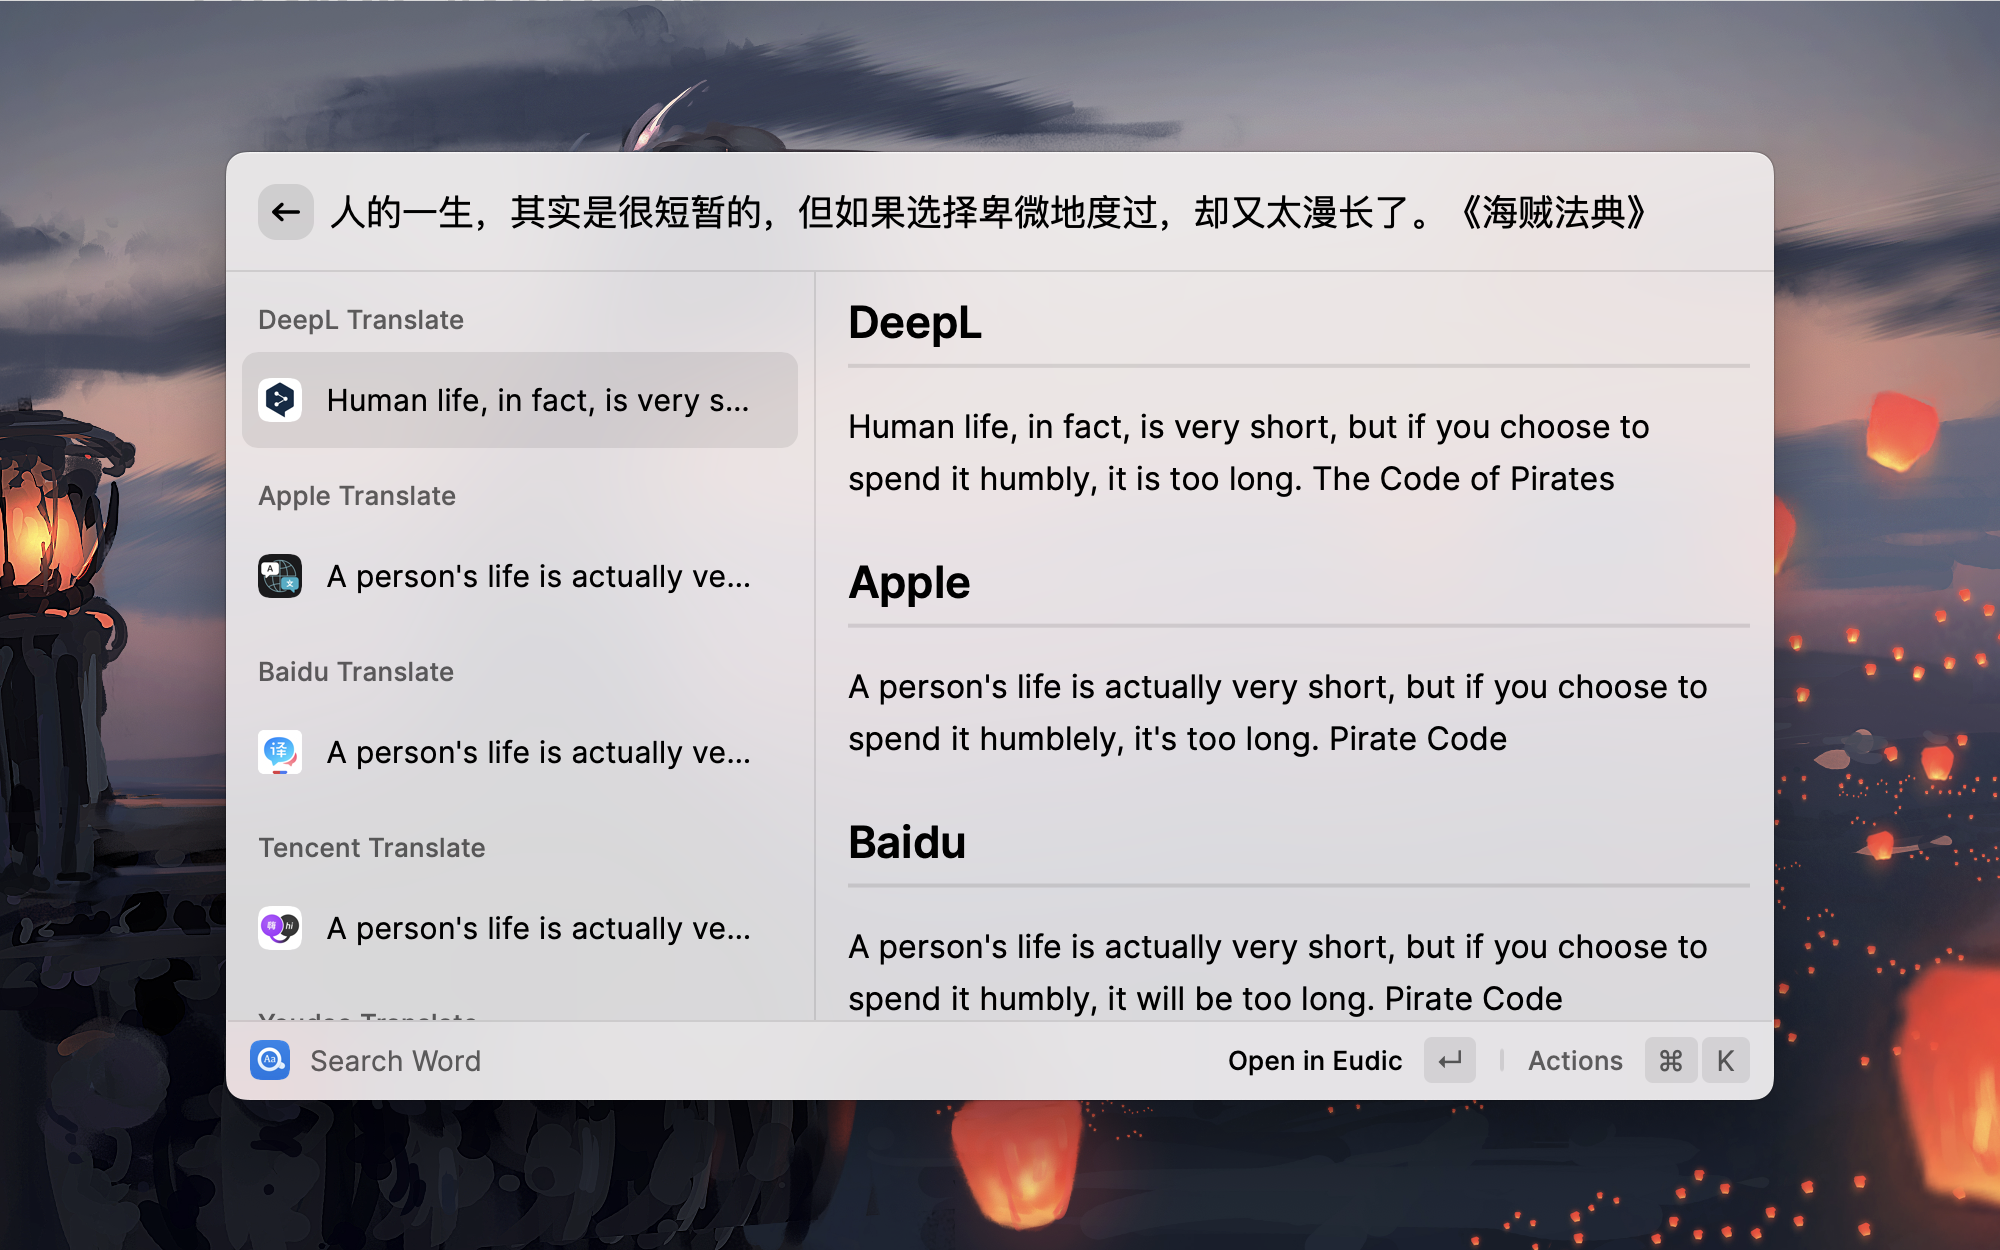
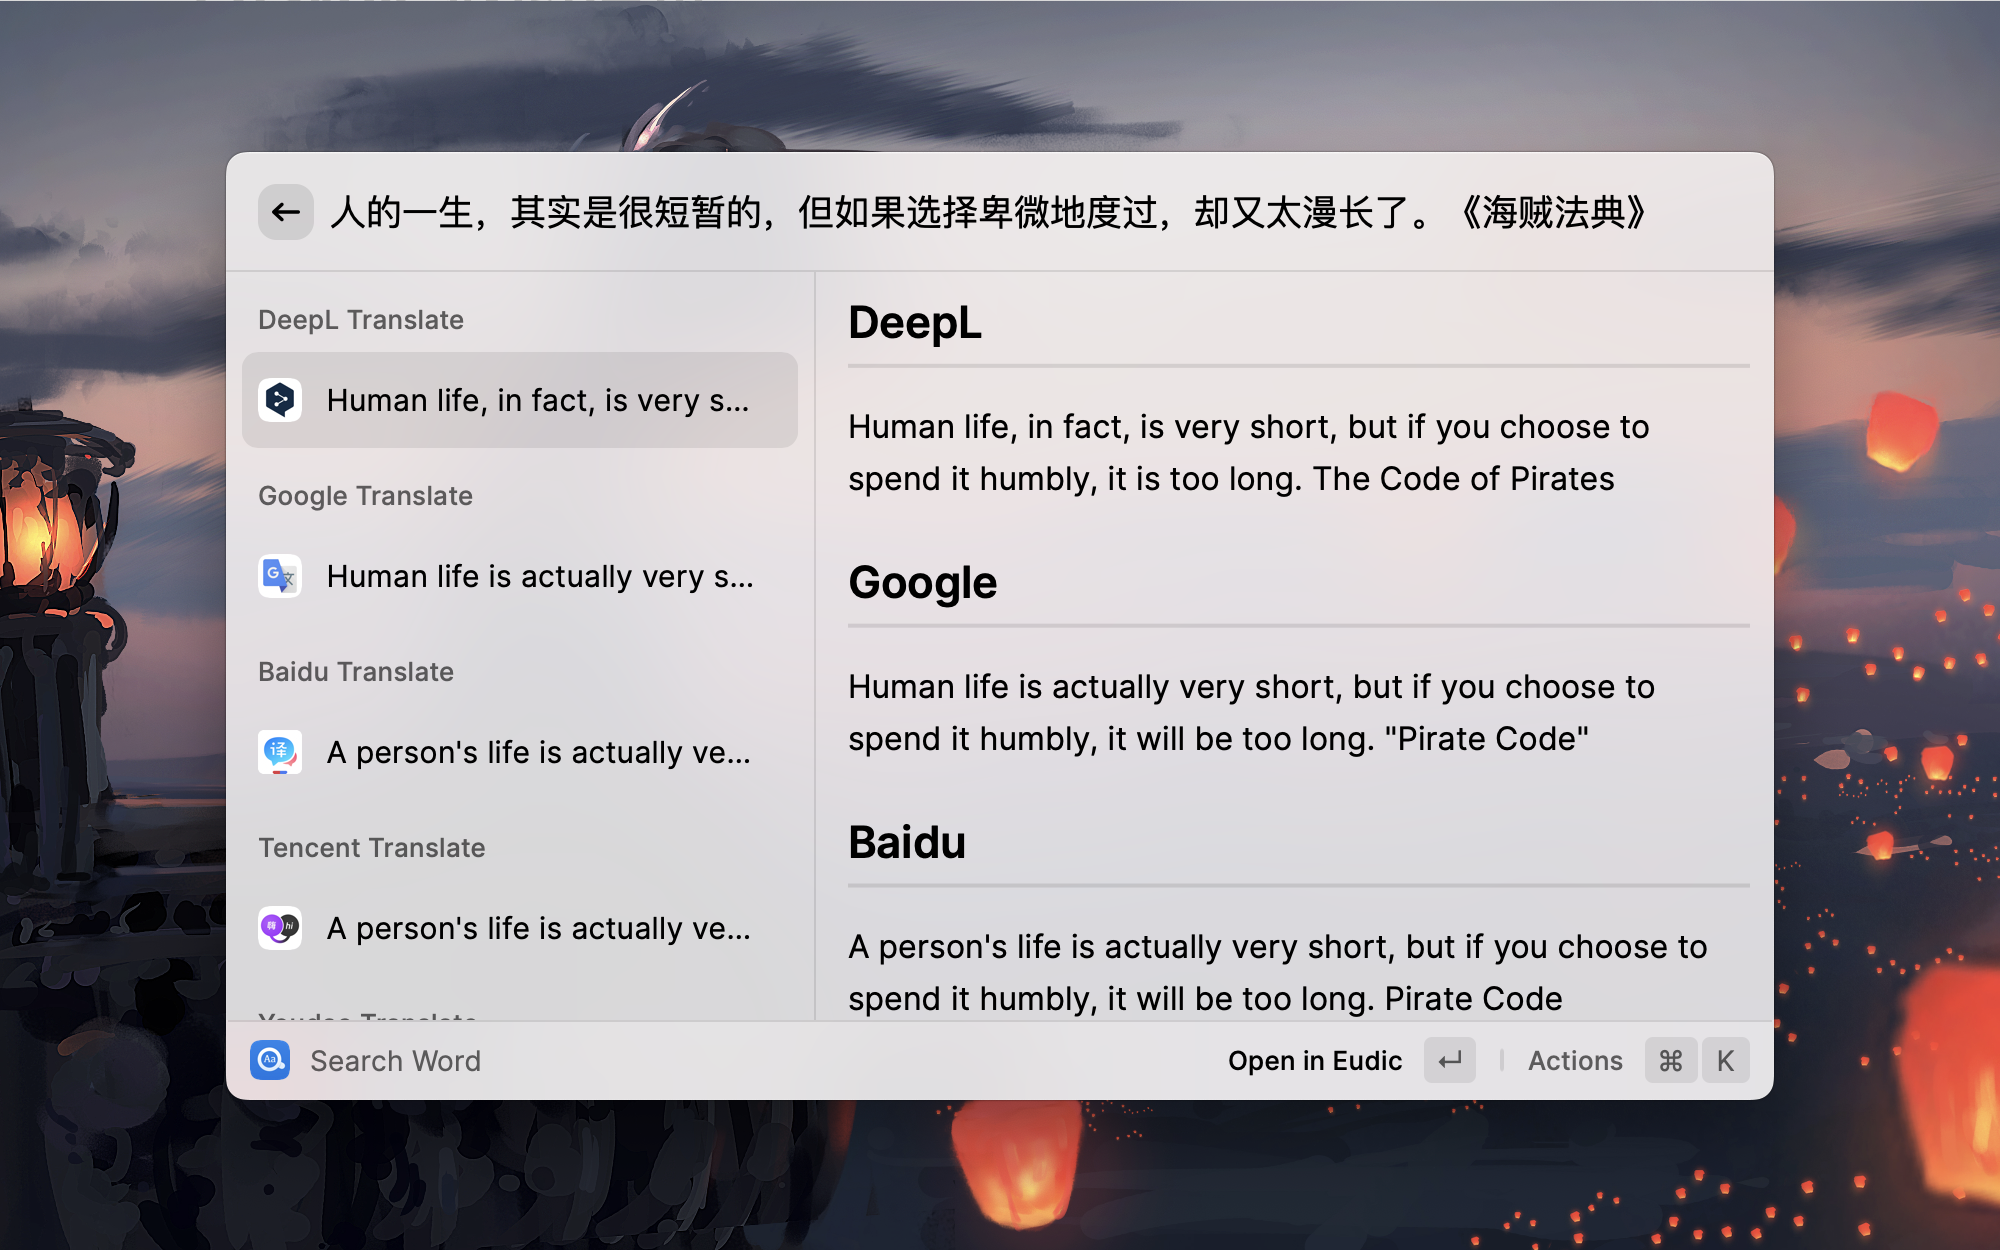
docs: update README and changelog

diff --git a/src/releaseVersion/changelog.ts b/src/releaseVersion/changelog.ts
@@ -2,19 +2,20 @@
  * @author: tisfeng
  * @createTime: 2022-07-03 22:10
  * @lastEditor: tisfeng
- * @lastEditTime: 2022-07-21 16:03
+ * @lastEditTime: 2022-07-23 18:25
  * @fileName: changelog.ts
  *
  * Copyright (c) 2022 by tisfeng, All Rights Reserved.
  */
 
 export const changelog = `
-## [v1.3.1] - 2022-07-21
+## [v1.4.0] - 2022-07-23
 
-### 🐞 Fixes
+### ✨ 新特性
 
-- 修复了可能多次显示更新日志提示的问题。
-- 修复了有道翻译请求异常错误未处理问题。
+- 支持 Google 翻译。
+
+![Google](https://raw.githubusercontent.com/tisfeng/ImageBed/main/uPic/easydict-6-1658571181.png)
 
 ### ✅ 最近更新
 
@@ -22,16 +23,12 @@ export const changelog = `
 - 支持手动排序翻译结果显示。
 - 支持苹果🍎系统翻译
 - 修复了删除输入框文本会导致重复查询选中文本问题。
-- 修复了动作按钮渲染时会闪烁显示 “✨ New Version Released” 问题。
-
-![easydict-5](https://raw.githubusercontent.com/tisfeng/ImageBed/main/uPic/easydict-5-1658309785.png)
 
 ---
 
-### 🐞 Fixes
+### ✨ New
 
-- fixed new release prompt may be shown multiple times.
-- handled the exceptional error of request to Youdao translation.
+- Added support for Google translation.
 
 ### ✅ Recent Updates
 
@@ -39,5 +36,4 @@ export const changelog = `
 - Supported to sort translation results manually.
 - Added support for Apple 🍎 system translation.
 - Fixed deleting input box text will cause repeated query selected text problem.
-- Fixed the bug of "✨ New Version Released" flashing when rendering action button.
 `;

diff --git a/src/releaseVersion/versionInfo.ts b/src/releaseVersion/versionInfo.ts
@@ -2,7 +2,7 @@
  * @author: tisfeng
  * @createTime: 2022-07-01 19:05
  * @lastEditor: tisfeng
- * @lastEditTime: 2022-07-21 16:12
+ * @lastEditTime: 2022-07-23 18:26
  * @fileName: versionInfo.ts
  *
  * Copyright (c) 2022 by tisfeng, All Rights Reserved.
@@ -27,10 +27,10 @@ export class Easydict {
 
   // new version info
   // * NOTE: this is new version info, don't use it directly. Use getCurrentStoredVersionInfo() instead.
-  version = "1.3.1";
-  buildNumber = 5;
-  versionDate = "2022-07-21";
-  isNeedPrompt = false;
+  version = "1.4.0";
+  buildNumber = 6;
+  versionDate = "2022-07-23";
+  isNeedPrompt = true;
   hasPrompted = false; // always default false, only show once, then should be set to true.
   releaseMarkdown = changelog;
 

diff --git a/README.md b/README.md
@@ -13,7 +13,7 @@
 
 ## What is Easydict? [【中文介绍】](https://github.com/tisfeng/Raycast-Easydict/wiki)
 
-`Easydict` is an easy dictionary, for looking up words or translating text in an easy way. Use it out of the box, automatically detect the input text language, support Youdao dictionary, **MacOS system translate**, DeepL, Baidu, Tencent, Youdao and Caiyun translation API.
+`Easydict` is an easy dictionary, for looking up words or translating text in an easy way. Use it out of the box, automatically detect the input text language, support Youdao dictionary, **MacOS system translate**, DeepL, Google, Baidu, Tencent, Youdao and Caiyun translation.
 
 ![easydict-1](https://raw.githubusercontent.com/tisfeng/ImageBed/main/uPic/easydict-1-1658309667-1658309686.png)
 
@@ -29,24 +29,23 @@
 - [x] Support Youdao Text to Speech(TTS).
 - [x] Support to sort translation results manually.
 - [x] Support **MacOS system translation**. (_Please see [How to use macOS 🍎 system translation in Easydict?](https://github.com/tisfeng/Raycast-Easydict/wiki/How-to-use--macOS-%F0%9F%8D%8E-system-translation-in-Easydict%3F)_)
-- [x] Support DeepL, Baidu, Tencent, Youdao and Caiyun translation API.
+- [x] Support DeepL, Google, Baidu, Tencent, Youdao and Caiyun translation.
 - [x] Support 23 languages.
 
 Next:
 
 - [ ] Support more dictionary API, such as homonyms, synonyms, antonyms, Iciba, etc.
-- [ ] Support Google translate API.
 - [ ] Support to view query history.
 
 **_If you like this extension, please give a [Star](https://github.com/tisfeng/Raycast-Easydict) ⭐, thanks!_**
 
 ![easydict-2](https://raw.githubusercontent.com/tisfeng/ImageBed/main/uPic/easydict-2-1658309750.png)
 
-![easydict-3](https://raw.githubusercontent.com/tisfeng/ImageBed/main/uPic/easydict-3-1658309767.png)
+![easydict-3](https://raw.githubusercontent.com/tisfeng/ImageBed/main/uPic/easydict-3-1658570945.png)
 
-![easydict-4](https://raw.githubusercontent.com/tisfeng/ImageBed/main/uPic/easydict-4-1658309776.png)
+![easydict-4](https://raw.githubusercontent.com/tisfeng/ImageBed/main/uPic/easydict-4-1658570954.png)
 
-![easydict-5](https://raw.githubusercontent.com/tisfeng/ImageBed/main/uPic/easydict-5-1658309785.png)
+![easydict-5](https://raw.githubusercontent.com/tisfeng/ImageBed/main/uPic/easydict-5-1658570961.png)
 
 ---
 
@@ -62,31 +61,31 @@ Currently we support 23 languages: Simplified Chinese, Traditional Chinese, Engl
 
 Details of the languages supported by each translation service are as follows:
 
-| language               | Youdao | DeepL | 🍎 Apple | Baidu | Tencent | Caiyun |
-| :--------------------- | :----: | :---: | :------: | :---: | :-----: | :----: |
-| Chinese (Simplified)   |   ✅   |  ✅   |    ✅    |  ✅   |   ✅    |   ✅   |
-| Chinese（Traditional） |   ✅   |  ⚠   |    ⚠    |  ✅   |   ✅    |   ⚠   |
-| English                |   ✅   |  ✅   |    ✅    |  ✅   |   ✅    |   ✅   |
-| Japanese               |   ✅   |  ✅   |    ✅    |  ✅   |   ✅    |   ✅   |
-| Korean                 |   ✅   |  ❌   |    ✅    |  ✅   |   ✅    |   ❌   |
-| French                 |   ✅   |  ✅   |    ✅    |  ✅   |   ✅    |   ❌   |
-| Spanish                |   ✅   |  ✅   |    ✅    |  ✅   |   ✅    |   ❌   |
-| Portuguese             |   ✅   |  ✅   |    ✅    |  ✅   |   ✅    |   ❌   |
-| Italian                |   ✅   |  ✅   |    ✅    |  ✅   |   ✅    |   ❌   |
-| German                 |   ✅   |  ✅   |    ✅    |  ✅   |   ✅    |   ❌   |
-| Russian                |   ✅   |  ✅   |    ✅    |  ✅   |   ✅    |   ❌   |
-| Arabic                 |   ✅   |  ❌   |    ✅    |  ✅   |   ✅    |   ❌   |
-| Swedish                |   ✅   |  ✅   |    ❌    |  ✅   |   ❌    |   ❌   |
-| Romanian               |   ✅   |  ✅   |    ❌    |  ✅   |   ❌    |   ❌   |
-| Thai                   |   ✅   |  ❌   |    ❌    |  ✅   |   ✅    |   ❌   |
-| Slovak                 |   ✅   |  ✅   |    ❌    |  ✅   |   ❌    |   ❌   |
-| Dutch                  |   ✅   |  ✅   |    ❌    |  ✅   |   ❌    |   ❌   |
-| Hungarian              |   ✅   |  ✅   |    ❌    |  ✅   |   ❌    |   ❌   |
-| Greek                  |   ✅   |  ✅   |    ❌    |  ✅   |   ❌    |   ❌   |
-| Danish                 |   ✅   |  ✅   |    ❌    |  ✅   |   ❌    |   ❌   |
-| Finnish                |   ✅   |  ✅   |    ❌    |  ✅   |   ❌    |   ❌   |
-| Polish                 |   ✅   |  ✅   |    ❌    |  ✅   |   ❌    |   ❌   |
-| Czech                  |   ✅   |  ✅   |    ❌    |  ✅   |   ❌    |   ❌   |
+| language               | Youdao | DeepL | Google | 🍎 Apple | Baidu | Tencent | Caiyun |
+| :--------------------- | :----: | :---: | :----: | :------: | :---: | :-----: | :----: |
+| Chinese (Simplified)   |   ✅   |  ✅   |   ✅   |    ✅    |  ✅   |   ✅    |   ✅   |
+| Chinese（Traditional） |   ✅   |  ⚠   |  ✅ q  |    ⚠    |  ✅   |   ✅    |   ⚠   |
+| English                |   ✅   |  ✅   |   ✅   |    ✅    |  ✅   |   ✅    |   ✅   |
+| Japanese               |   ✅   |  ✅   |   ✅   |    ✅    |  ✅   |   ✅    |   ✅   |
+| Korean                 |   ✅   |  ❌   |   ✅   |    ✅    |  ✅   |   ✅    |   ❌   |
+| French                 |   ✅   |  ✅   |   ✅   |    ✅    |  ✅   |   ✅    |   ❌   |
+| Spanish                |   ✅   |  ✅   |   ✅   |    ✅    |  ✅   |   ✅    |   ❌   |
+| Portuguese             |   ✅   |  ✅   |   ✅   |    ✅    |  ✅   |   ✅    |   ❌   |
+| Italian                |   ✅   |  ✅   |   ✅   |    ✅    |  ✅   |   ✅    |   ❌   |
+| German                 |   ✅   |  ✅   |   ✅   |    ✅    |  ✅   |   ✅    |   ❌   |
+| Russian                |   ✅   |  ✅   |   ✅   |    ✅    |  ✅   |   ✅    |   ❌   |
+| Arabic                 |   ✅   |  ❌   |   ✅   |    ✅    |  ✅   |   ✅    |   ❌   |
+| Swedish                |   ✅   |  ✅   |   ✅   |    ❌    |  ✅   |   ❌    |   ❌   |
+| Romanian               |   ✅   |  ✅   |   ✅   |    ❌    |  ✅   |   ❌    |   ❌   |
+| Thai                   |   ✅   |  ❌   |   ✅   |    ❌    |  ✅   |   ✅    |   ❌   |
+| Slovak                 |   ✅   |  ✅   |   ✅   |    ❌    |  ✅   |   ❌    |   ❌   |
+| Dutch                  |   ✅   |  ✅   |   ✅   |    ❌    |  ✅   |   ❌    |   ❌   |
+| Hungarian              |   ✅   |  ✅   |   ✅   |    ❌    |  ✅   |   ❌    |   ❌   |
+| Greek                  |   ✅   |  ✅   |   ✅   |    ❌    |  ✅   |   ❌    |   ❌   |
+| Danish                 |   ✅   |  ✅   |   ✅   |    ❌    |  ✅   |   ❌    |   ❌   |
+| Finnish                |   ✅   |  ✅   |   ✅   |    ❌    |  ✅   |   ❌    |   ❌   |
+| Polish                 |   ✅   |  ✅   |   ✅   |    ❌    |  ✅   |   ❌    |   ❌   |
+| Czech                  |   ✅   |  ✅   |   ✅   |    ❌    |  ✅   |   ❌    |   ❌   |
 
 > Note: ⚠ means the translation of source language to Traditional Chinese is not supported, such as DeepL. If you enter Traditional Chinese for translation, it will be treated as Simplified Chinese.
 
@@ -166,11 +165,11 @@ By default, the extension will automatically select the preferred languages as t
 
 ### Sort Translation Results Manually
 
-<details> <summary> You can sort the translation results by your preference, default is `DeepL,Apple,Baidu,Tencent,Youdao,Caiyun`. </summary>
+<details> <summary> You can sort the translation results by your preference, default is `DeepL,Google,Apple,Baidu,Tencent,Youdao,Caiyun`. </summary>
 
 <p>
 
-Name case are insensitive, use comma to separate. Example: `deepl,apple,baidu,tencent,youdao,caiyun`. You can also specify a part of the sort, for example: `apple,tencent`，the actual sort is: `apple,tencent,deepl,baidu,youdao,caiyun`.
+Name case are insensitive, use comma to separate. Example: `deepl,google,apple,baidu,tencent,youdao,caiyun`. You can also specify a part of the sort, for example: `apple,tencent`，the actual sort is: `apple,tencent,deepl,google,baidu,youdao,caiyun`.
 
 > Note: This sort is the overall sort, if a translation service is not enabled, the sort will be automatically ignored.
 

diff --git a/CHANGELOG.md b/CHANGELOG.md
@@ -1,5 +1,20 @@
 # `Easydict` Changelog
 
+## [v1.4.0] - 2022-07-23
+
+### ✨ New
+
+- Added support for Google translation.
+
+![Google](https://raw.githubusercontent.com/tisfeng/ImageBed/main/uPic/easydict-6-1658571181.png)
+
+### ✅ Recent Updates
+
+- Added support for DeepL translation.
+- Supported to sort translation results manually.
+- Added support for Apple 🍎 system translation.
+- Fixed deleting input box text will cause repeated query selected text problem.
+
 ## [v1.3.1] - 2022-07-21
 
 ### 🐞 Fixes
